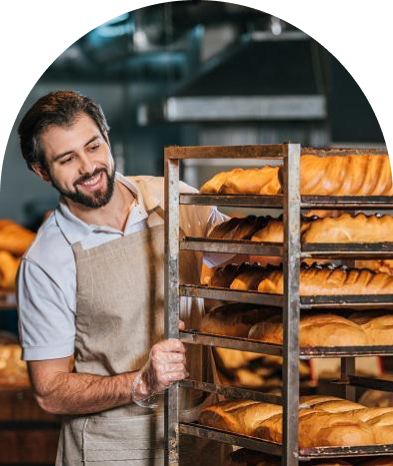
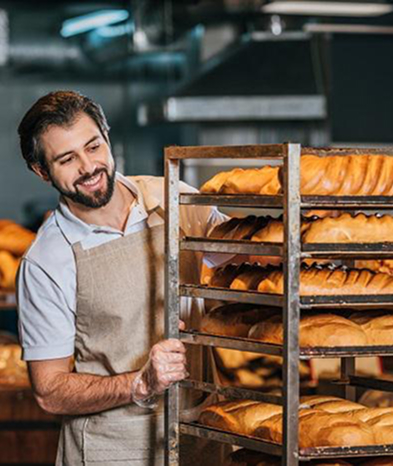
Modul 9

diff --git a/css/style.css b/css/style.css
@@ -28,8 +28,10 @@
 :root {
   --color-primary-dark: #31261a;
   --color-primary-light: #faf4ea;
-  --color-brand-light: #819b57;
+  --color-brand-normal: #819b57;
   --color-brand-dark: #465929;
+  --color-brand-light: #cfcfbc;
+  --color-secondary-dark: #a28268;
 }
 
 /* Base */
@@ -39,6 +41,7 @@
 
 body {
   color: var(--color-primary-dark);
+  background-color: var(--color-primary-light);
   font-family: 'Poppins', sans-serif;
   font-size: 18px;
   font-weight: 400;
@@ -90,8 +93,8 @@ ul {
   padding: 16px 32px;
   color: var(--color-primary-light);
   font-weight: 600;
-  background-color: var(--color-brand-light);
-  border: 2px solid var(--color-brand-light);
+  background-color: var(--color-brand-normal);
+  border: 2px solid var(--color-brand-normal);
   border-radius: 8px;
   cursor: pointer;
 }
@@ -108,7 +111,7 @@ ul {
 }
 
 .link:hover {
-  color: var(--color-brand-light);
+  color: var(--color-brand-normal);
 }
 
 /* Header */
@@ -116,6 +119,7 @@ ul {
   display: flex;
   align-items: center;
   gap: 40px;
+  background-color: silver; /* remove  */
 }
 
 .header-nav {
@@ -135,6 +139,10 @@ ul {
 /* Hero */
 .hero-section {
   padding: 272px 0;
+  background-image: url('../images/hero-section-background.jpg');
+  background-repeat: no-repeat;
+  background-position: center top;
+  background-size: cover;
 }
 
 .hero-title {
@@ -146,13 +154,13 @@ ul {
 }
 
 .hero-title .accent {
-  color: var(--color-brand-light);
+  color: var(--color-brand-normal);
 }
 
 /* Advantages */
 .advantages-section {
   padding: 16px 0;
-  background-color: var(--color-brand-light);
+  background-color: var(--color-brand-normal);
 }
 
 .advantages-list {
@@ -169,6 +177,10 @@ ul {
 
 .section-title .accent {
   color: var(--color-brand-dark);
+}
+
+.section-title.centered {
+  text-align: center;
 }
 
 .section-title {
@@ -197,16 +209,16 @@ ul {
 }
 
 .traditions-text .brand {
-  color: var(--color-brand-light);
+  color: var(--color-brand-normal);
   font-weight: 600;
 }
 
 .traditions-text .brand.uppercase {
   text-transform: uppercase;
-  color: var(--color-brand-light);
+  color: var(--color-brand-normal);
 }
 
-.traditions-text .limited {
+.traditions-text.limited {
   max-width: 340px;
 }
 
@@ -217,8 +229,24 @@ ul {
   font-size: 40px;
 }
 
+.chefs-title::before,
+.chefs-title::after {
+  display: block;
+  width: 352px;
+  height: 2px;
+  background-color: var(--color-brand-light);
+  content: '';
+}
+
+.chef-photo {
+  border-radius: 4px 4px 4px 200px;
+  box-shadow: -16px 16px 0 0 var(--color-primary-light),
+    -16px 16px 0 2px var(--color-secondary-dark);
+}
+
 .chefs-title {
-  margin-bottom: 80px;
+  max-width: 520px;
+  margin: 0 auto 80px;
 }
 
 /* Formats section */
@@ -233,9 +261,16 @@ ul {
 }
 
 .format-card {
+  height: 444px;
   padding: 24px;
   border: 1px solid lightgray; /* remove  */
   border-radius: 16px;
+  background-image: linear-gradient(
+    180deg,
+    rgba(49, 38, 26, 0) 55.21%,
+    rgba(49, 38, 26, 0.71) 72.92%,
+    var(--color-primary-dark) 100%
+  );
 }
 
 .format-title {
@@ -266,9 +301,17 @@ ul {
 }
 
 .address-link:hover {
-  color: var(--color-brand-light);
+  color: var(--color-brand-normal);
 }
 
 .address-copyright {
   font-size: 14px;
+}
+
+.footer {
+  background-image: url('../images/footer-background.png');
+  background-color: var(--color-primary-dark);
+  background-repeat: no-repeat;
+  background-position: center;
+  background-size: cover;
 }

diff --git a/index.html b/index.html
@@ -65,6 +65,7 @@
         <h2 class="chefs-title section-title">Наші найкращі <span class="accent">шеф-кухарі</span></h2>
     <ul>
         <li><article>
+            <img class="chef-photo" src="./images/nastya_chef.jpg" alt="Nastya chef">
             <h3 class="chef-title">Настя</h3>
             <p>Привіт, я Настя!</p>
             <p>Вже 10 років, я свтілюю у життя цікаві та смачні ідеї.</p>
@@ -72,6 +73,7 @@
             </article>
         </li>
         <li><article>
+            <img class="chef-photo" src="/images/vlad_chef.jpg" alt="Vlad chef">
             <h3 class="chef-title">Влад</h3>
             <p>Привіт, я Влад!</p>
             <p>Мій кодитерський стаж вже 18 років. SHOP BEKERY - це наша любов, з якою ми ділимось кожен раз з Вами через нашу
@@ -84,7 +86,7 @@
   </section>
   <section class="section" id="formats-section">
     <div class="container">
-        <h2 class="formats-title section-title">Формати</h2>
+        <h2 class="formats-title section-title centered">Формати</h2>
     <ul class="formats-list">
         <li class="formats-item">
             <article class="format-card">
@@ -137,7 +139,7 @@
 </div>
   </section>
  </main>
-<footer>
+<footer class="footer">
 <div class="container">
         <nav>
         <a href="#">
